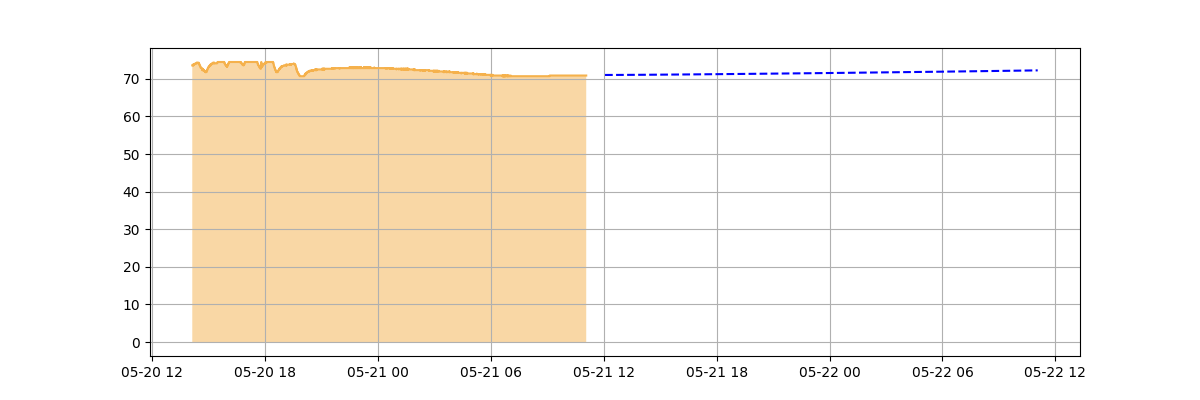
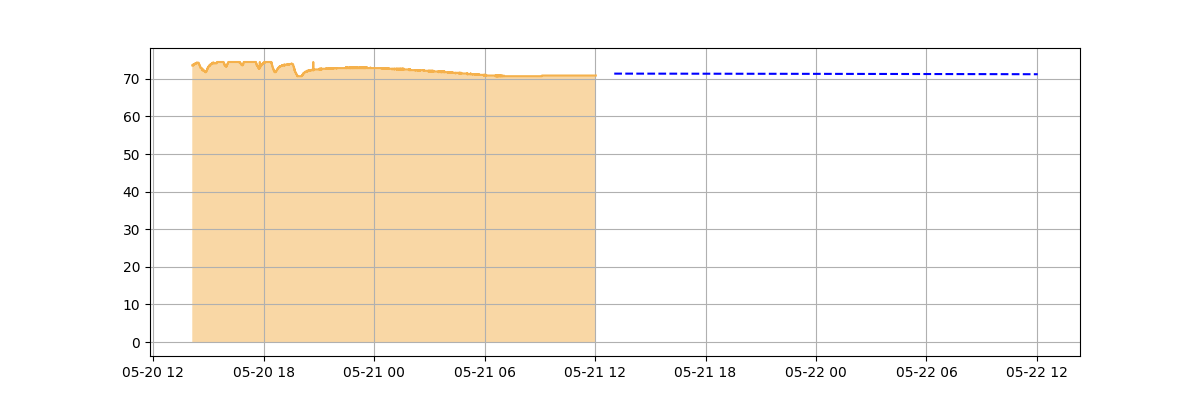
update model to use x_train_data rather than mode_data X_test. Add relu to model layers, update theme and css to use bootstrap

diff --git a/apps/Edge/edge-modeler/app/templates/index.html b/apps/Edge/edge-modeler/app/templates/index.html
@@ -1,21 +1,35 @@
 <html>
   <head>
+    <!-- Latest compiled and minified CSS -->
+    <link rel="stylesheet" href="https://stackpath.bootstrapcdn.com/bootstrap/3.4.1/css/bootstrap.min.css" integrity="sha384-HSMxcRTRxnN+Bdg0JdbxYKrThecOKuH5zCYotlSAcp1+c8xmyTe9GYg1l9a69psu" crossorigin="anonymous">
+
+    <!-- Optional theme -->
+    <link rel="stylesheet" href="https://stackpath.bootstrapcdn.com/bootstrap/3.4.1/css/bootstrap-theme.min.css" integrity="sha384-6pzBo3FDv/PJ8r2KRkGHifhEocL+1X2rVCTTkUfGk7/0pbek5mMa1upzvWbrUbOZ" crossorigin="anonymous">
+
+    <!-- Latest compiled and minified JavaScript -->
+    <script src="https://stackpath.bootstrapcdn.com/bootstrap/3.4.1/js/bootstrap.min.js" integrity="sha384-aJ21OjlMXNL5UyIl/XNwTMqvzeRMZH2w8c5cRVpzpU8Y5bApTppSuUkhZXN0VxHd" crossorigin="anonymous"></script>
     <title>Flask App</title>
+
+    <style type='text/css'>
+    body {
+        margin: 10px;
+        padding: 10px;
+    }
+    </style>
   </head>
   <body>
     <h1>{{message}}</h1>
-
-    <h5 align="right">Truncate Data (Reduce size)</h5>
-    <p align="right"><a href=truncate ><button class=grey style="height:25px;width:125px">Reduce Data Size</button></a></p>
 
     <p>Portworx at Edge: Deep Machine Learning with Keras (on Tensorflow 2.0)</p>
     <p> - Portworx Sharedv4 at the edge is streaming data from an IoT thermostat. You can view live data of this IoT device, or run priductions on the last 50,000 data points using Tensorflow 2.0. The ML model is produced at the core Kubernetes infrastructure while the edge collects data.</p>
 
     <h5 align="center">View Live Data</h5>
-    <p align="center"><a href=graph ><button class=grey style="height:75px;width:150px">Live Data</button></a></p>
+    <p align="center"><a href=graph ><button class="btn btn-primary">Live Data</button></a></p>
 
     <h5 align="center">Run Prediction - (This takes some time to process and load, please be patient)</h5>
-    <p align="center"><a href=predict ><button class=grey style="height:75px;width:150px">Run Prediction</button></a></p>
+    <p align="center"><a href=predict ><button class="btn btn-primary">Run Prediction</button></a></p>
 
+    <h5 align="center">Truncate Data (Reduce size)</h5>
+    <p align="center"><a href=truncate ><button class="btn btn-primary">Reduce Data Size</button></a></p>
   </body>
 ˘

diff --git a/apps/Edge/edge-modeler/app/templates/graph.html b/apps/Edge/edge-modeler/app/templates/graph.html
@@ -1,8 +1,25 @@
 <html>
   <head>
+    <!-- Latest compiled and minified CSS -->
+    <link rel="stylesheet" href="https://stackpath.bootstrapcdn.com/bootstrap/3.4.1/css/bootstrap.min.css" integrity="sha384-HSMxcRTRxnN+Bdg0JdbxYKrThecOKuH5zCYotlSAcp1+c8xmyTe9GYg1l9a69psu" crossorigin="anonymous">
+
+    <!-- Optional theme -->
+    <link rel="stylesheet" href="https://stackpath.bootstrapcdn.com/bootstrap/3.4.1/css/bootstrap-theme.min.css" integrity="sha384-6pzBo3FDv/PJ8r2KRkGHifhEocL+1X2rVCTTkUfGk7/0pbek5mMa1upzvWbrUbOZ" crossorigin="anonymous">
+
+    <!-- Latest compiled and minified JavaScript -->
+    <script src="https://stackpath.bootstrapcdn.com/bootstrap/3.4.1/js/bootstrap.min.js" integrity="sha384-aJ21OjlMXNL5UyIl/XNwTMqvzeRMZH2w8c5cRVpzpU8Y5bApTppSuUkhZXN0VxHd" crossorigin="anonymous"></script>
+    <title>Flask App</title>
+
+    <style type='text/css'>
+    body {
+        margin: 10px;
+        padding: 10px;
+    }
+    </style>
     <title>Sensor Graphs</title>
   </head>
   <body>
+  <p align="left"><a href="/" ><button class="btn btn-primary">Home</button></a></p>
     <h3>Sensor Data</h3>
 	<img src="/static/temp_over_time.png" alt="temp_over_time" width="80%" height="auto">
 	<img src="/static/humid_over_time.png" alt="humid_over_time" width="80%" height="auto">

diff --git a/apps/Edge/edge-modeler/app/templates/predict.html b/apps/Edge/edge-modeler/app/templates/predict.html
@@ -1,8 +1,25 @@
 <html>
   <head>
+    <!-- Latest compiled and minified CSS -->
+    <link rel="stylesheet" href="https://stackpath.bootstrapcdn.com/bootstrap/3.4.1/css/bootstrap.min.css" integrity="sha384-HSMxcRTRxnN+Bdg0JdbxYKrThecOKuH5zCYotlSAcp1+c8xmyTe9GYg1l9a69psu" crossorigin="anonymous">
+
+    <!-- Optional theme -->
+    <link rel="stylesheet" href="https://stackpath.bootstrapcdn.com/bootstrap/3.4.1/css/bootstrap-theme.min.css" integrity="sha384-6pzBo3FDv/PJ8r2KRkGHifhEocL+1X2rVCTTkUfGk7/0pbek5mMa1upzvWbrUbOZ" crossorigin="anonymous">
+
+    <!-- Latest compiled and minified JavaScript -->
+    <script src="https://stackpath.bootstrapcdn.com/bootstrap/3.4.1/js/bootstrap.min.js" integrity="sha384-aJ21OjlMXNL5UyIl/XNwTMqvzeRMZH2w8c5cRVpzpU8Y5bApTppSuUkhZXN0VxHd" crossorigin="anonymous"></script>
+    <title>Flask App</title>
+
+    <style type='text/css'>
+    body {
+        margin: 10px;
+        padding: 10px;
+    }
+    </style>
     <title>Sensor Predictions</title>
   </head>
   <body>
+    <p align="left"><a href="/" ><button class="btn btn-primary">Home</button></a></p>
     <h3>Sensor Predictions</h3>
     <h4>{{accuracy}}</h1>
     <h4>Download Prediction Model</h3>

diff --git a/apps/Edge/edge-modeler/app/predict.py b/apps/Edge/edge-modeler/app/predict.py
@@ -94,8 +94,8 @@ x_train_data=np.reshape(x_train_data,(x_train_data.shape[0],x_train_data.shape[1
 
 # Train into LSTM Model
 lstm_model=Sequential()
-lstm_model.add(LSTM(units=50,return_sequences=True,input_shape=(np.shape(x_train_data)[1],1)))
-lstm_model.add(LSTM(units=50))
+lstm_model.add(LSTM(units=50,activation='relu',return_sequences=True,input_shape=(np.shape(x_train_data)[1],1)))
+lstm_model.add(LSTM(units=50, activation='relu'))
 lstm_model.add(Dense(1))
 model_data=data[len(data)-len(valid_data)-60:].values
 model_data=model_data.reshape(-1,1)
@@ -140,10 +140,11 @@ plt.savefig('static/temp_over_time_post_prediction.png')
 #futures (24 Hours)
 X_FUTURE = 24
 predictions = np.array([])
-last = X_test[-1]
+#last = X_test[-1]
+last = x_train_data[-1]
 for i in range(X_FUTURE):
   curr_prediction = lstm_model.predict(np.array([last]))
-  #print(curr_prediction)
+  print(curr_prediction)
   last = np.concatenate([last[1:], curr_prediction])
   predictions = np.concatenate([predictions, curr_prediction[0]])
 predictions = scaler.inverse_transform([predictions])[0]
